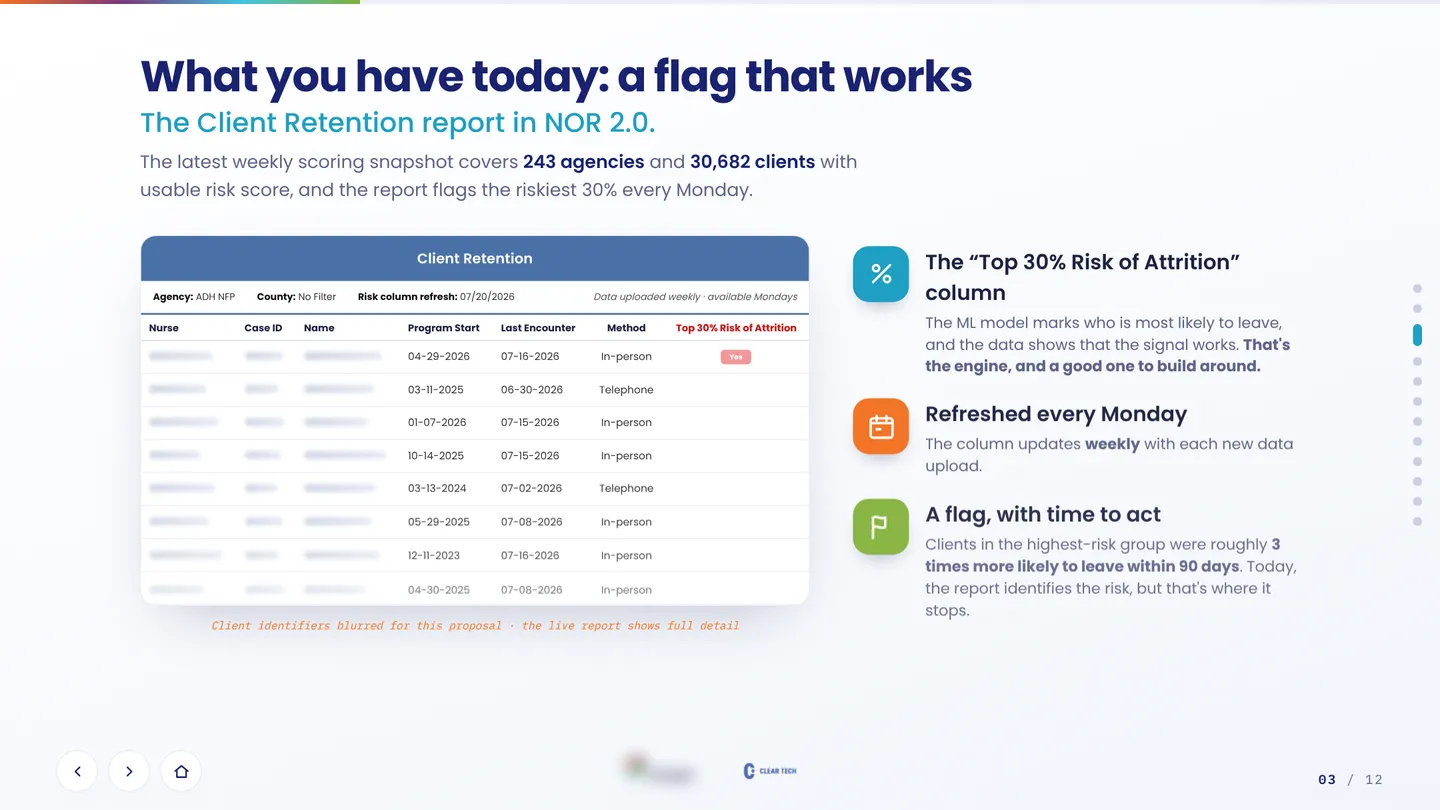
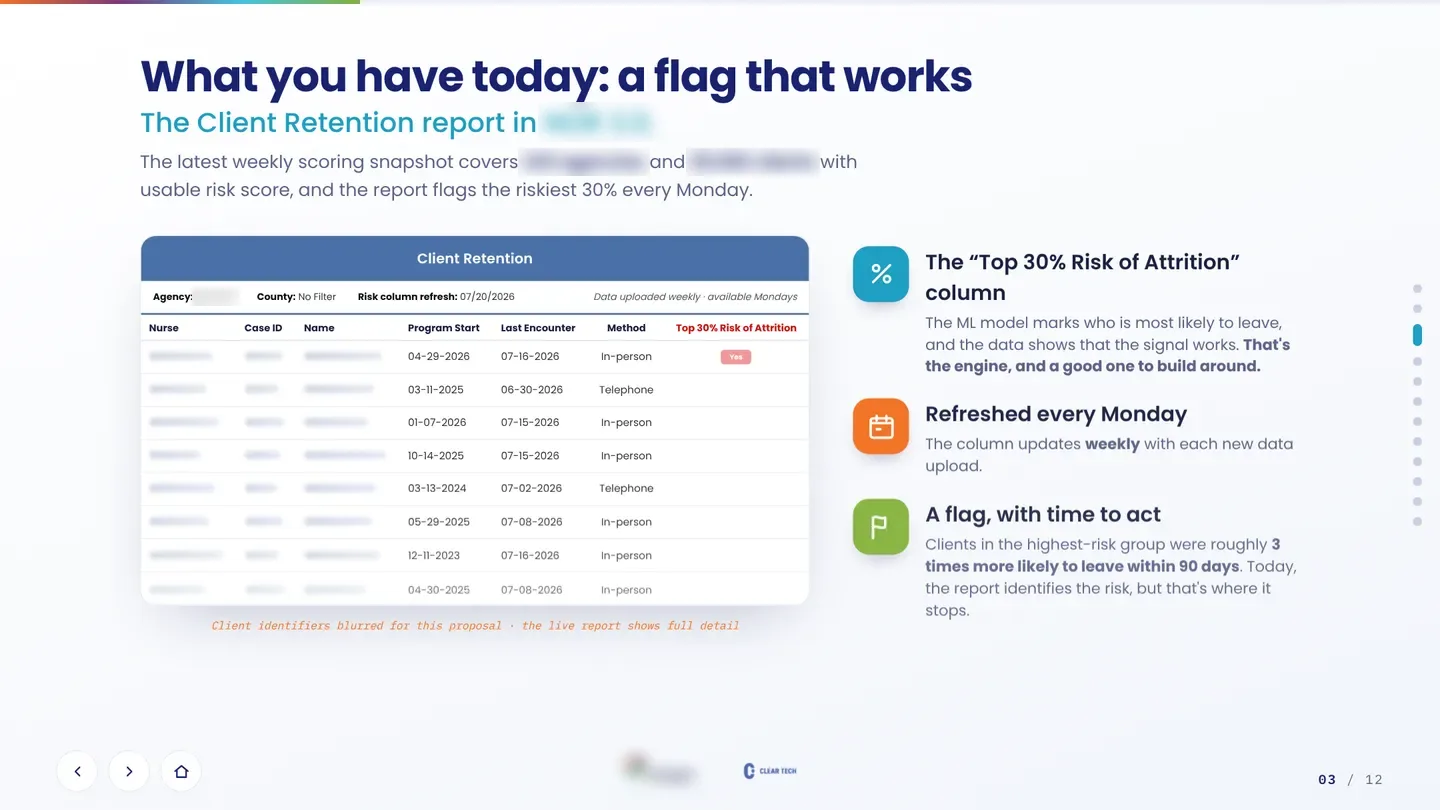
Review fixes: HIPAA wording, client identifiers blurred, consistency edits, site accessibility pass
Changent says HIPAA training, and the agency and system names are
blurred in the prototype and screenshots. LG no longer names advertisers,
lists a second designer, and its timings agree. Biomás says 18
provinces. Empty alts filled, hotspot touch targets enlarged and small
text raised to 12px.

Claude-Session: https://claude.ai/code/session_01S3w2mkuKb4QhLec9tj741t

Changed region(s): [[0.3438, 0.1235, 0.5938, 0.216], [0.125, 0.3395, 0.1562, 0.3704]]

diff --git a/index.html b/index.html
@@ -5117,6 +5117,12 @@ body .jf-close { max-width: 24ch; margin-top: clamp(2.5rem, 5vw, 4rem); font-siz
 body .hero h1 .hl { padding-bottom: 0.16em; margin-bottom: -0.16em; }
 body .hero h1 .sel, body .hero h1 .sel-wrap { overflow: visible; }
 @media (min-width: 901px) { body .desk { margin: 0 34px 0 -144px; } body .desk.is-zoom { margin-left: 20px; } }
+
+/* ===== accessibility pass on the site itself: larger touch targets and a floor for small text ===== */
+body .dk-pin { min-width: 0; } body .dk-pin::before { content: ""; position: absolute; left: 50%; bottom: -16px; width: 44px; height: 44px; translate: -50% 0; }
+body .fx-client { font-size: max(0.75rem, 12px); } body .fx-tab, body .mw-tab { font-size: 0.75rem; }
+body .fx-src, body .roles-state-k, body .jf-t th, body .mwl-c { font-size: max(0.75rem, 12px); }
+@media (max-width: 720px) { body .fx-client { font-size: 12px; } }
 </style>
 <script type="importmap">{"imports":{"three":"https://cdn.jsdelivr.net/npm/three@0.160.0/build/three.module.min.js","three/addons/":"https://cdn.jsdelivr.net/npm/three@0.160.0/examples/jsm/"}}</script><link rel="preconnect" href="https://cdn.jsdelivr.net" crossorigin><link rel="modulepreload" href="https://cdn.jsdelivr.net/npm/three@0.160.0/build/three.module.min.js"><link rel="modulepreload" href="https://cdn.jsdelivr.net/npm/three@0.160.0/examples/jsm/geometries/RoundedBoxGeometry.js"><link rel="modulepreload" href="https://cdn.jsdelivr.net/npm/three@0.160.0/examples/jsm/environments/RoomEnvironment.js">
 </head>
@@ -6421,7 +6427,7 @@ function start() {
         <a class="fx-a" href="#biomas">
           <span class="fx-tab" aria-hidden="true">05</span>
           <span class="fx-strip"><span class="fx-client">Biomás</span><span class="fx-kpi">2 → 1</span></span>
-          <span class="fx-face"><span class="fx-txt"><span class="fx-title">Biomás Donor Collection App</span><span class="fx-lab"><b>2 → 1</b> data entries per donor, across 18 provinces</span><span class="fx-res">Live nationwide</span><span class="fx-cta">Open the file <span aria-hidden="true">→</span></span></span><img class="fx-img" src="img/23d551e0c1b6cf.webp" alt="" loading="lazy" decoding="async"></span>
+          <span class="fx-face"><span class="fx-txt"><span class="fx-title">Biomás Donor Collection App</span><span class="fx-lab"><b>2 → 1</b> data entries per donor, across 18 provinces</span><span class="fx-res">Live in 18 provinces</span><span class="fx-cta">Open the file <span aria-hidden="true">→</span></span></span><img class="fx-img" src="img/23d551e0c1b6cf.webp" alt="" loading="lazy" decoding="async"></span>
         </a>
       </li>
       </ol>
@@ -6573,10 +6579,10 @@ function start() {
     <header class="case-head">
       <p class="case-client">LG Ad Solutions</p>
       <h1 id="case-title" tabindex="-1">Gradient: AI Analytics for Advertisers</h1>
-      <p class="lede">Brands invest millions to appear on LG smart TVs, and they all ask the same question: is it working? Gradient started with a complaint: LG's teams couldn't put data in front of advertisers like Disney or Hulu to prove it, and pulling it together by hand took hours. They asked for two things: AI, and a way to build their own dashboards. I led the product design of Gradient, the platform that came out of that brief, built mostly for LG's internal teams.</p>
+      <p class="lede">Brands invest millions to appear on LG smart TVs, and they all ask the same question: is it working? Gradient started with a complaint: LG's teams couldn't put data in front of their advertisers to prove it, and pulling it together by hand took hours or days, depending on where the data lived. They asked for two things: AI, and a way to build their own dashboards. I led the product design of Gradient, the platform that came out of that brief, built mostly for LG's internal teams.</p>
       <dl class="meta">
         <div><dt>Role</dt><dd>Product Design Lead</dd></div>
-        <div><dt>Team</dt><dd>LG's product teams, Clear Tech's developers and me</dd></div>
+        <div><dt>Team</dt><dd>LG's product teams, Clear Tech's developers, a second designer and me</dd></div>
         <div><dt>Year</dt><dd>2025&ndash;2026</dd></div>
         <div><dt>Outcome</dt><dd>Live, in use at LG</dd></div>
         <div><dt>Product</dt><dd>Gradient analytics and AI agents</dd></div>
@@ -6636,7 +6642,7 @@ function start() {
           </tbody>
         </table>
       </div>
-      <p class="source">18 months of work in total, with a core team of 3 to 8 people depending on the phase.</p>
+      <p class="source">About 18 months of work in total, with a core team of 3 to 8 people depending on the phase.</p>
     </section>
 
     <section aria-labelledby="lg-s1">
@@ -7343,7 +7349,7 @@ function start() {
       <h2 id="ret-s1" data-short="Start">Where I started</h2>
       <div class="prose">
         <p>The flag from Changent's model landed in a weekly report and rarely turned into action. The Phase 2 proposal meant to fix that was ten slides with the same layout: no numbers from the model, a product told in bullets, a yes requested on slide 2. Nobody had seen a single screen.</p>
-        <p>Before touching a screen or a slide, I met one by one with the Clear Tech experts who work with Changent every day, shaped the proposal with them and later validated every part of the prototype with them. That is also the limit of the research: it went through Clear Tech's domain experts, who know Changent's data first-hand, not through nurses or supervisors. Three insights changed the pitch:</p>
+        <p>Before touching a screen or a slide, I met one by one with the Clear Tech experts who work with Changent every day, shaped the proposal with them and later validated every part of the prototype with them. The research went through those experts, who know Changent's data first-hand, and through nurses. Three insights changed the pitch:</p>
         <ul>
           <li><strong>Nurses don't need to know who is at risk;</strong> they need to know what to do.</li>
           <li><strong>The report competes with a full visit schedule,</strong> and loses.</li>
@@ -7401,7 +7407,7 @@ function start() {
       <p class="proto-link"><a class="btn btn-ghost" href="changent-prototype.html" target="_blank" rel="noopener">Open the live prototype<span class="visually-hidden"> (opens in a new tab)</span></a><span>Nurse and manager views, with synthetic data.</span></p>
       <h3 id="ret-roles">Who sees what</h3>
       <div class="prose">
-        <p>This is health information, so I designed it under HIPAA rules and got HIPAA-certified for the project. The two views are not two layouts of the same data: each role gets the minimum it needs to do its job, and every time the agent or a person touches a client record, it is logged.</p>
+        <p>This is health information, so I designed it under HIPAA rules and completed HIPAA training for the project. The two views are not two layouts of the same data: each role gets the minimum it needs to do its job, and every time the agent or a person touches a client record, it is logged.</p>
       </div>
       <figure class="roles" aria-labelledby="ret-roles-cap">
         <div class="roles-scroll" tabindex="0" role="region" aria-label="Roles and permissions table">
@@ -7438,16 +7444,16 @@ function start() {
         <p>Then I rebuilt the deck around the prototype. The original asked for a yes on slide 2. I moved the ask to the end, gave the model's numbers a screen of their own, and replaced the bullets about a future product with the working prototype, opened live from a slide.</p>
       </div>
       <ul class="origs" aria-hidden="true">
-        <li><img data-m="39" width="640" height="360" loading="lazy" alt=""></li>
-        <li><img data-m="40" width="640" height="360" loading="lazy" alt=""></li>
-        <li><img data-m="41" width="640" height="360" loading="lazy" alt=""></li>
-        <li><img data-m="42" width="640" height="360" loading="lazy" alt=""></li>
-        <li><img data-m="43" width="640" height="360" loading="lazy" alt=""></li>
-        <li><img data-m="44" width="640" height="360" loading="lazy" alt=""></li>
-        <li><img data-m="45" width="640" height="360" loading="lazy" alt=""></li>
-        <li><img data-m="46" width="640" height="360" loading="lazy" alt=""></li>
-        <li><img data-m="47" width="640" height="360" loading="lazy" alt=""></li>
-        <li><img data-m="48" width="640" height="360" loading="lazy" alt=""></li>
+        <li><img data-m="39" width="640" height="360" loading="lazy" alt="Slide 1 of the original proposal deck"></li>
+        <li><img data-m="40" width="640" height="360" loading="lazy" alt="Slide 2 of the original proposal deck"></li>
+        <li><img data-m="41" width="640" height="360" loading="lazy" alt="Slide 3 of the original proposal deck"></li>
+        <li><img data-m="42" width="640" height="360" loading="lazy" alt="Slide 4 of the original proposal deck"></li>
+        <li><img data-m="43" width="640" height="360" loading="lazy" alt="Slide 5 of the original proposal deck"></li>
+        <li><img data-m="44" width="640" height="360" loading="lazy" alt="Slide 6 of the original proposal deck"></li>
+        <li><img data-m="45" width="640" height="360" loading="lazy" alt="Slide 7 of the original proposal deck"></li>
+        <li><img data-m="46" width="640" height="360" loading="lazy" alt="Slide 8 of the original proposal deck"></li>
+        <li><img data-m="47" width="640" height="360" loading="lazy" alt="Slide 9 of the original proposal deck"></li>
+        <li><img data-m="48" width="640" height="360" loading="lazy" alt="Slide 10 of the original proposal deck"></li>
       </ul>
       <p class="origs-caption">The original deck: correct, but static.</p>
       <figure class="compare-fig">
@@ -8023,7 +8029,7 @@ function start() {
     <header class="case-head">
       <p class="case-client">Biomás</p>
       <h1 id="bm-title" tabindex="-1">Biomás Donor Collection App</h1>
-      <p class="lede">A field app for a nationwide network. Biomás collects donations at donors' homes in 18 of Argentina's 24 provinces; the donations become fertility treatments. I led the product strategy of the native app its collectors and field reps use every day: I defined the features, validated them with stakeholders and approved every screen a junior designer produced in Figma. I also wrote and designed its quick-start guides and Play Store page.</p>
+      <p class="lede">A field app for a network that covers 18 provinces. Biomás collects donations at donors' homes in 18 of Argentina's 24 provinces; the donations become fertility treatments. I led the product strategy of the native app its collectors and field reps use every day: I defined the features, validated them with stakeholders and approved every screen a junior designer produced in Figma. I also wrote and designed its quick-start guides and Play Store page.</p>
       <dl class="meta">
         <div><dt>Role</dt><dd>Product Design Lead</dd></div>
         <div><dt>Product</dt><dd>Native app, web app, quick-start guides and Play Store page</dd></div>
@@ -8036,7 +8042,7 @@ function start() {
     <dl class="glance">
       <div><dt><svg class="i" viewBox="0 0 24 24" fill="none" stroke="currentColor" stroke-width="1.8" stroke-linecap="round" stroke-linejoin="round" aria-hidden="true"><circle cx="12" cy="12" r="10"/><path d="M12 8v4"/><path d="M12 16h.01"/></svg>The problem</dt><dd>Routes were planned by hand, donor data was unreliable, and field reps wrote everything twice: on paper, then in a web app.</dd></div>
       <div><dt><svg class="i" viewBox="0 0 24 24" fill="none" stroke="currentColor" stroke-width="1.8" stroke-linecap="round" stroke-linejoin="round" aria-hidden="true"><path d="M12 19l7-7 3 3-7 7-3-3z"/><path d="M18 13l-1.5-7.5L2 2l3.5 14.5L13 18l5-5z"/><path d="M2 2l7.6 7.6"/><circle cx="11" cy="11" r="2"/></svg>What I did</dt><dd>Led the product strategy of one native app for two kinds of users, approved every screen a junior designer produced, and wrote the quick-start guides that taught people to use it.</dd></div>
-      <div><dt><svg class="i" viewBox="0 0 24 24" fill="none" stroke="currentColor" stroke-width="1.8" stroke-linecap="round" stroke-linejoin="round" aria-hidden="true"><path d="M22 7l-8.5 8.5-5-5L2 17"/><path d="M16 7h6v6"/></svg>The result</dt><dd>One app for the whole network, in use across the country. The client bought the guides as an extra.</dd></div>
+      <div><dt><svg class="i" viewBox="0 0 24 24" fill="none" stroke="currentColor" stroke-width="1.8" stroke-linecap="round" stroke-linejoin="round" aria-hidden="true"><path d="M22 7l-8.5 8.5-5-5L2 17"/><path d="M16 7h6v6"/></svg>The result</dt><dd>One app for the whole network, in use in 18 of Argentina's 24 provinces. The client bought the guides as an extra.</dd></div>
     </dl>
     <aside class="tradeoff" aria-label="The hard call" data-lens="UX||Situational impairments||Anyone using a phone in a truck or a doorway works with one hand and half their attention. Designing for that moment, not for a desk, is what makes the app usable.||Sears et al., 2003">
       <p class="to-label">The hard call</p>

diff --git a/changent-prototype.html b/changent-prototype.html
@@ -562,7 +562,7 @@ tbody tr:hover{background:#FAFBFE}
         <div class="avatar">EV</div>
         <div>
           <h1>Good morning, Elliot</h1>
-          <p>Nurse home visitor · Adams County NFP · <b>24 active clients</b></p>
+          <p>Nurse home visitor · <span style="filter:blur(5px);user-select:none" aria-hidden="true">County agency</span> · <b>24 active clients</b></p>
         </div>
       </div>
       <div class="ctx-actions">
